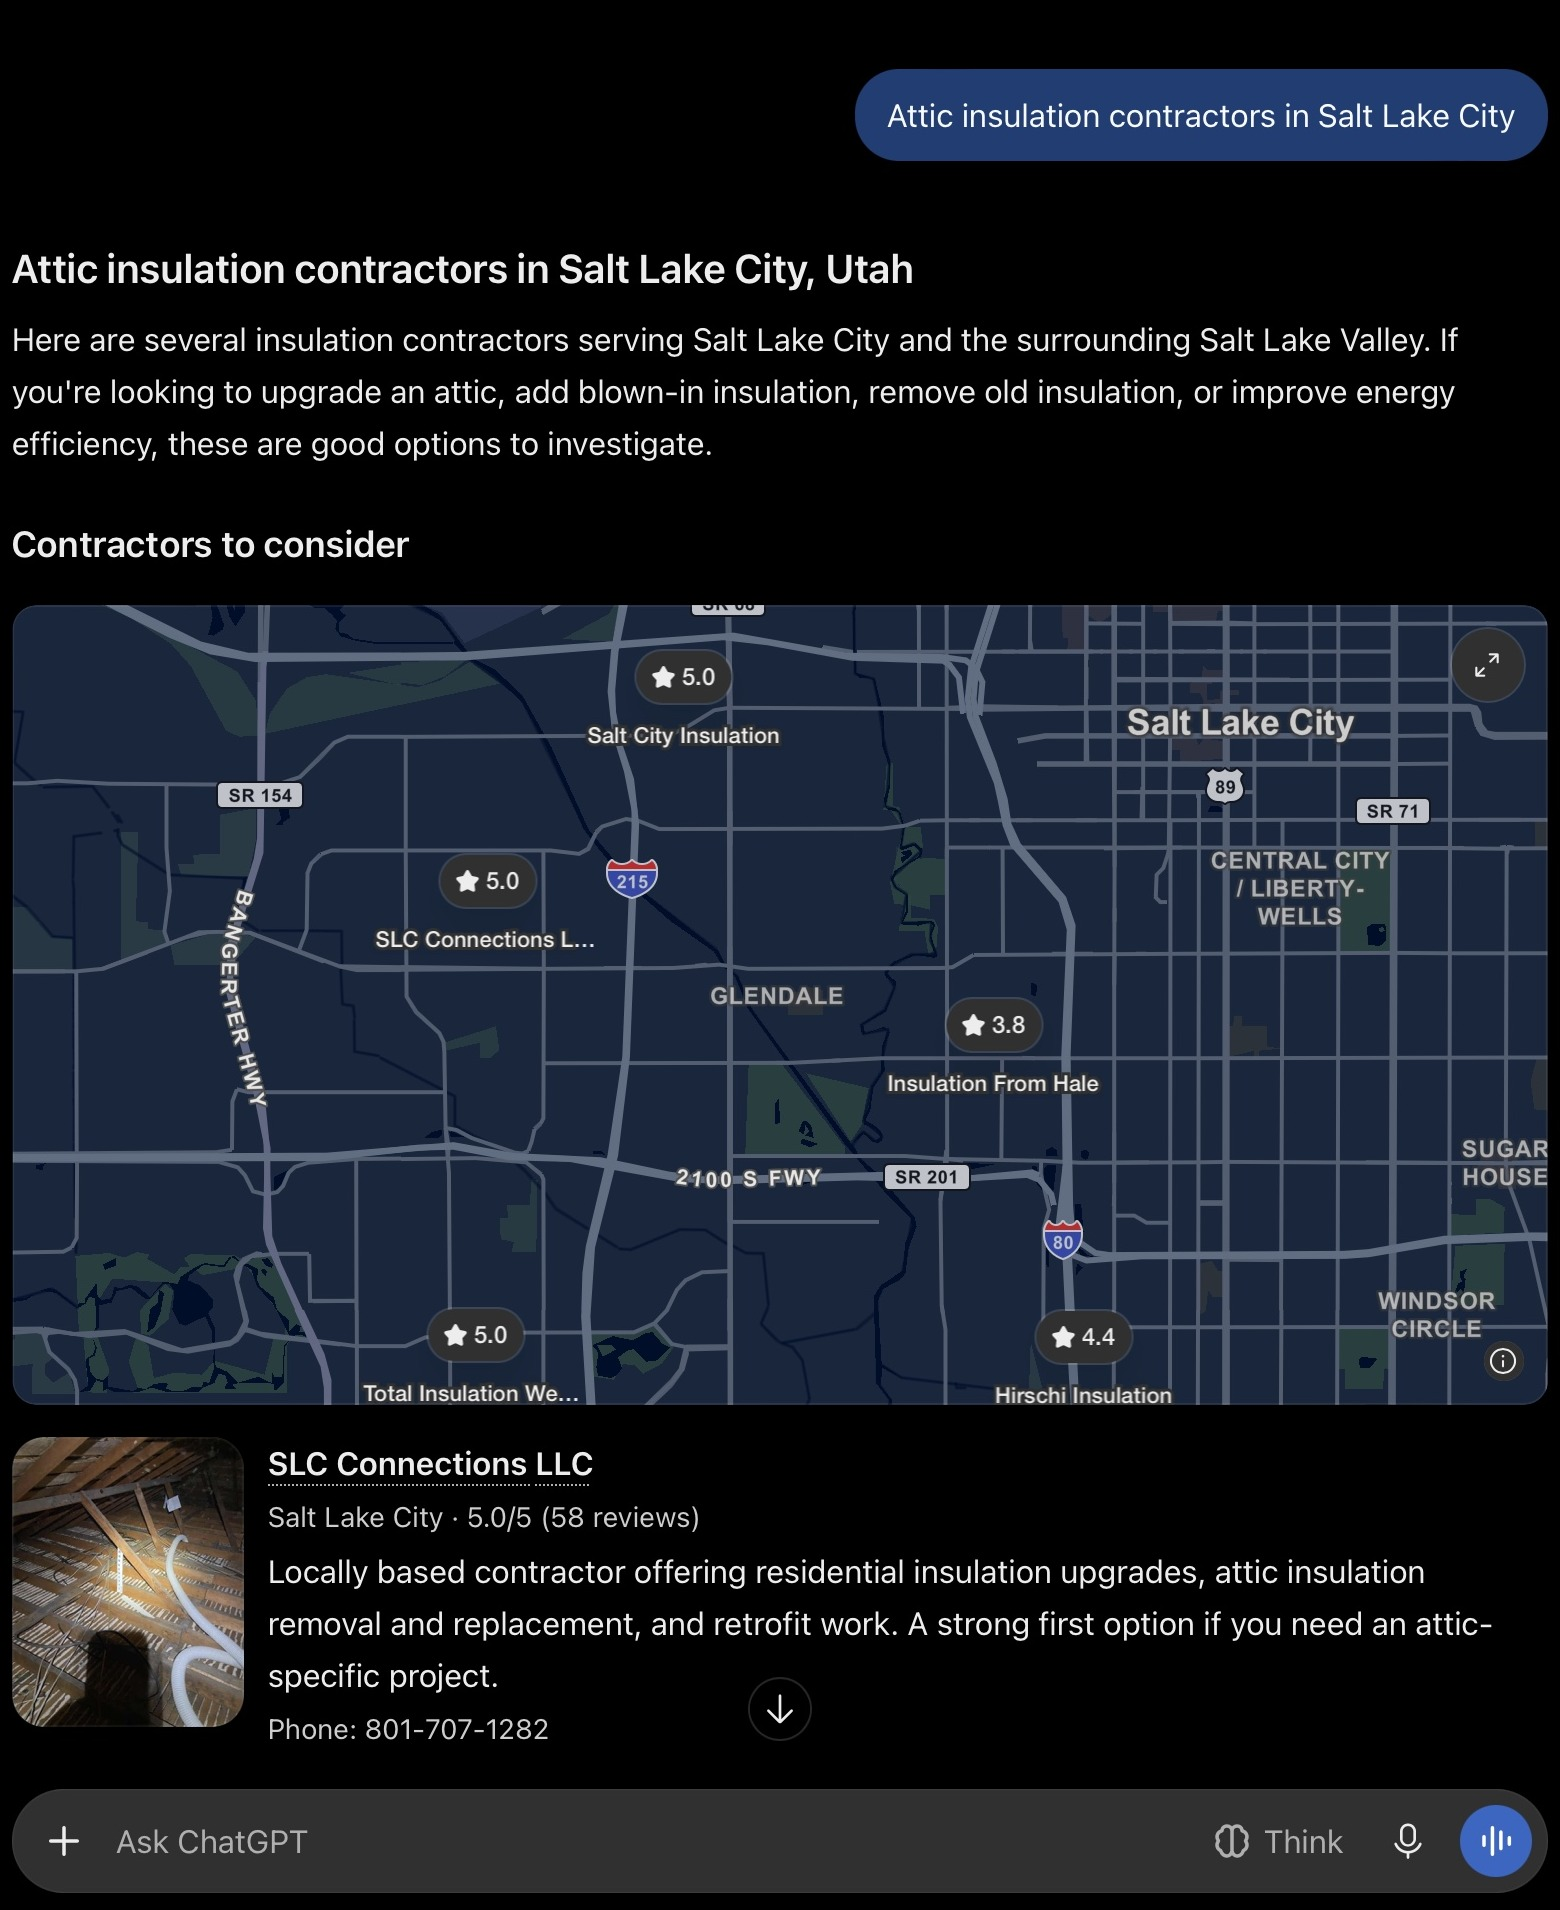
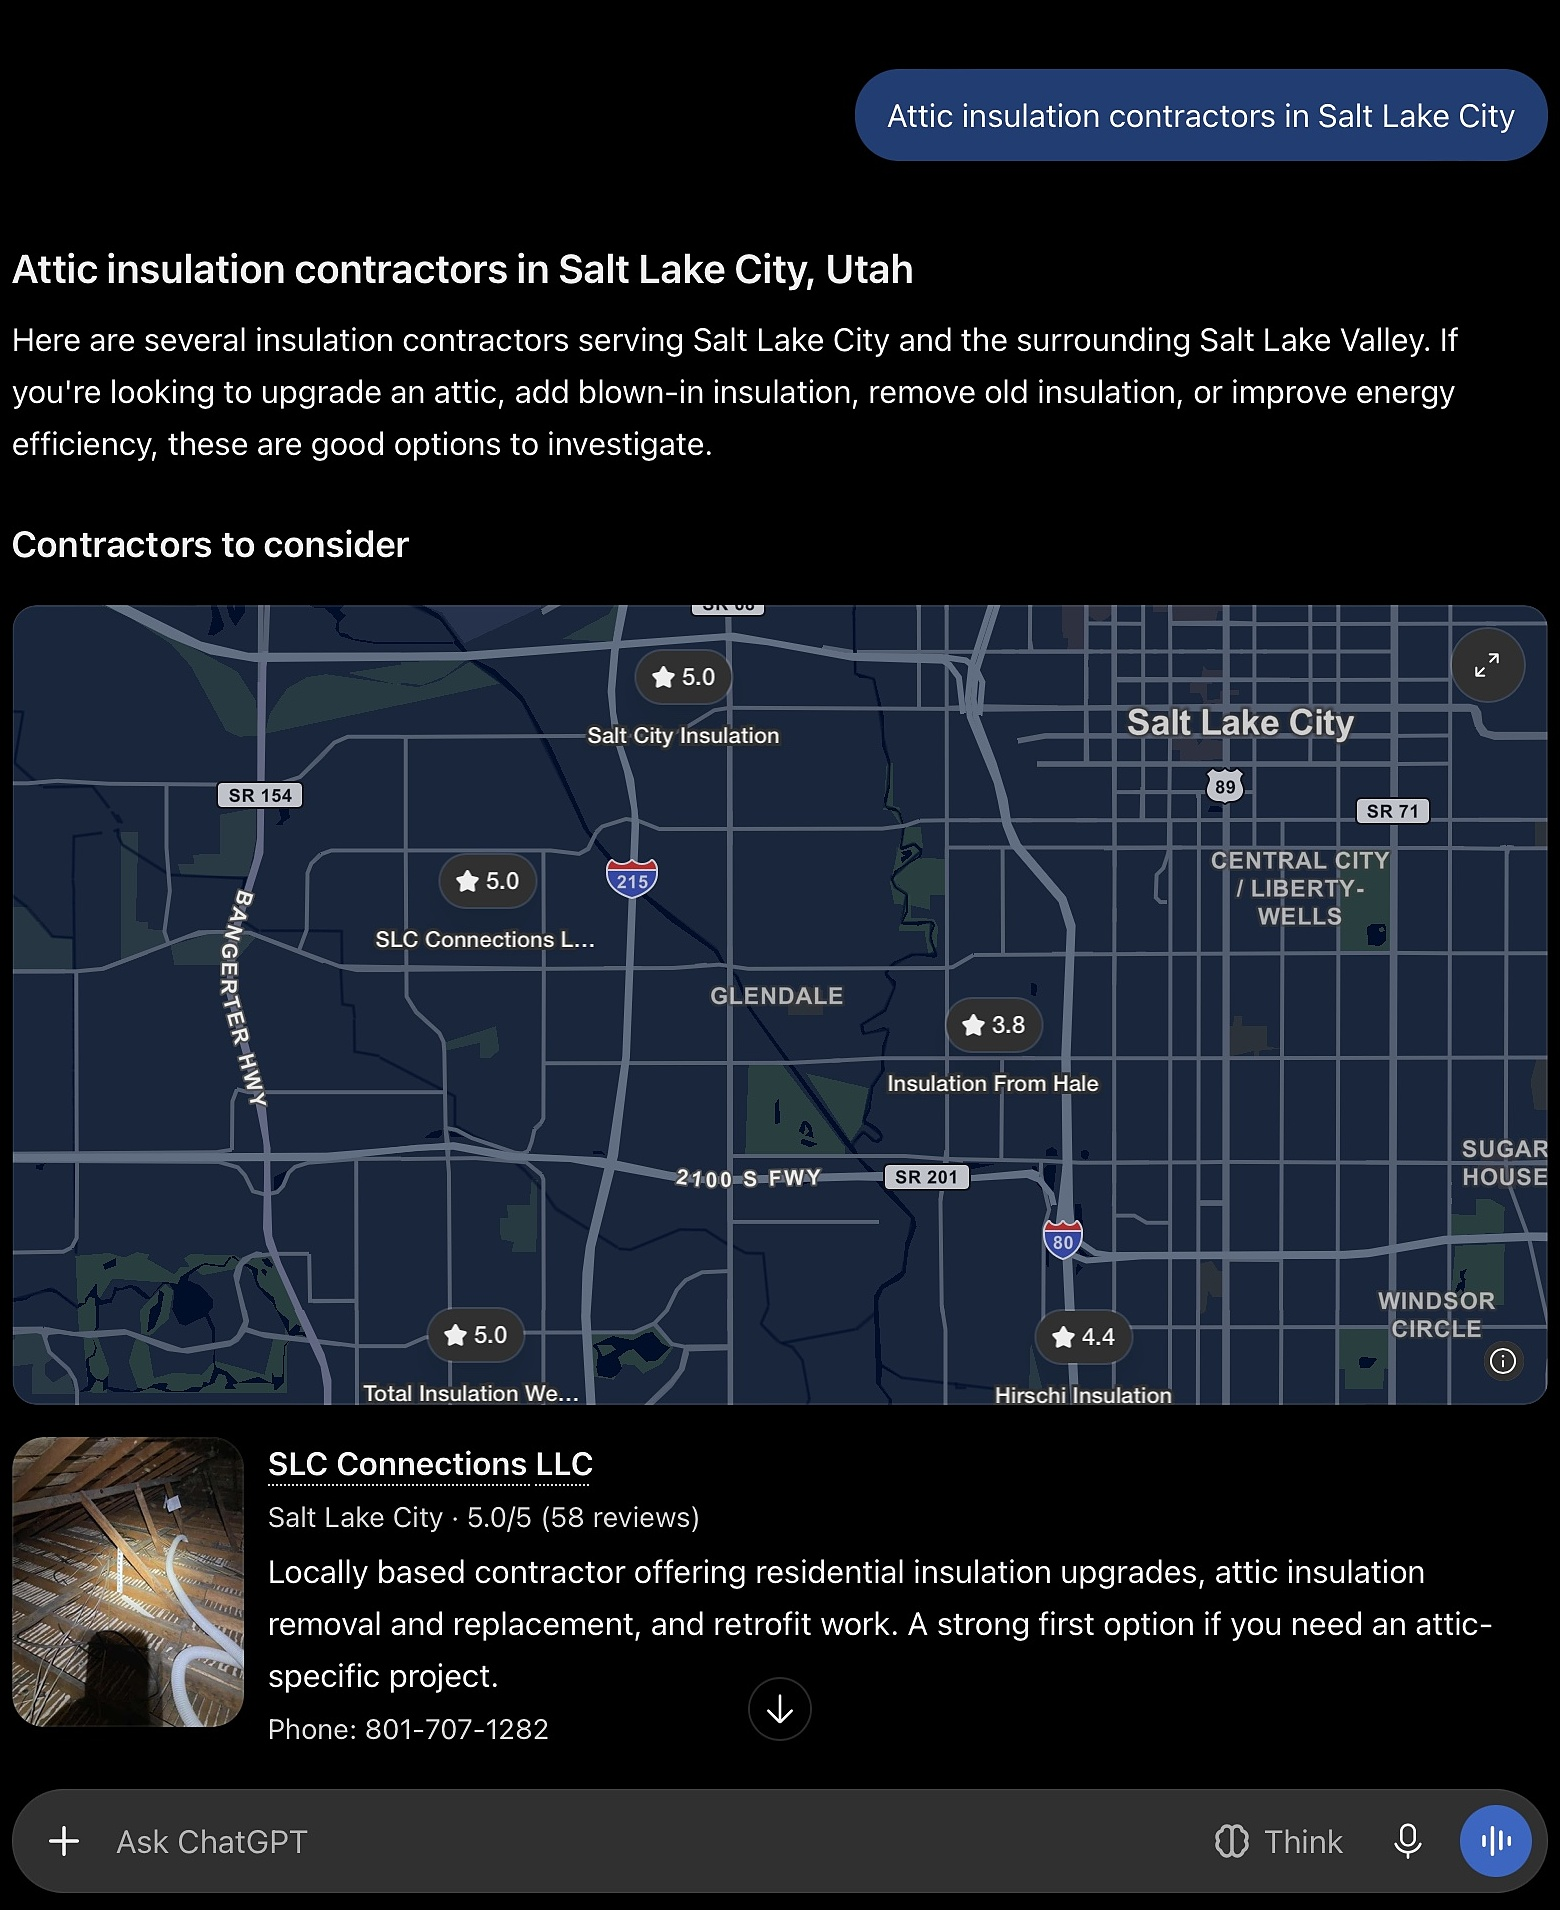
style: refine PayPerResultSector header UI
Compress the header layout for better visibility within the Generative Engine Optimisation step and update the reference image.

Changed region(s): [[0.1538, 0.4016, 0.1846, 0.4325]]

diff --git a/src/components/PayPerResultSector.tsx b/src/components/PayPerResultSector.tsx
@@ -649,61 +649,62 @@ export const PayPerResultSector: React.FC<PayPerResultSectorProps> = ({ onOpenQu
 
                   {/* ================= STEP 02: GENERATIVE ENGINE OPTIMISATION ================= */}
                   {activeStep === 1 && (
-                    <div className="h-full flex flex-col justify-between pt-10 pb-2 bg-[#000000] animate-fadeIn overflow-hidden text-white select-none">
-                      {/* Company / Tool Header */}
-                      <div className="flex items-center justify-between px-3.5 pb-2 border-b border-white/10 bg-[#0a0a0f]">
-                        <div className="flex items-center gap-2">
-                          <div className="w-6 h-6 rounded-full bg-gradient-to-tr from-[#10a37f] to-[#1a7f64] text-white flex items-center justify-center text-[10px] font-bold shadow-xs">
+                    <div className="h-full flex flex-col justify-between pt-9 pb-2 bg-[#000000] animate-fadeIn overflow-hidden text-white select-none">
+                      {/* Slim Top Header */}
+                      <div className="flex items-center justify-between px-3 py-1.5 border-b border-white/10 bg-[#0a0a0f] shrink-0">
+                        <div className="flex items-center gap-1.5">
+                          <div className="w-5 h-5 rounded-full bg-gradient-to-tr from-[#10a37f] to-[#1a7f64] text-white flex items-center justify-center text-[9px] font-bold shadow-xs">
                             AI
                           </div>
-                          <div>
-                            <div className="text-[11px] font-bold text-white leading-tight flex items-center gap-1.5">
+                          <div className="flex items-center gap-1.5">
+                            <span className="text-[11px] font-bold text-white leading-tight">
                               ChatGPT Search
-                              <span className="text-[8px] px-1.5 py-0.5 bg-emerald-500/20 text-emerald-400 border border-emerald-500/30 rounded-full font-mono font-medium">Rank #1</span>
-                            </div>
-                            <span className="text-[9px] text-gray-400 leading-tight">Generative Engine Optimisation</span>
+                            </span>
+                            <span className="text-[8px] px-1.5 py-0.5 bg-emerald-500/20 text-emerald-400 border border-emerald-500/30 rounded-full font-mono font-medium">
+                              Rank #1
+                            </span>
                           </div>
                         </div>
                         <button
                           onClick={() => setGeoModalOpen(true)}
                           className="flex items-center gap-1 bg-white/10 hover:bg-white/20 text-white/90 border border-white/15 px-2 py-0.5 rounded-full text-[9px] font-medium transition-colors cursor-pointer"
-                          title="View full size"
+                          title="View full size lightbox"
                         >
-                          <Maximize2 className="w-2.5 h-2.5" />
-                          <span>Expand</span>
+                          <Maximize2 className="w-2.5 h-2.5 text-[#2aff2a]" />
+                          <span>Full View</span>
                         </button>
                       </div>
 
-                      {/* Image Preview Container - 100% visible width, scrollable so zero text is cut off */}
-                      <div className="relative w-full flex-1 overflow-y-auto overflow-x-hidden no-scrollbar bg-black flex flex-col items-center justify-start py-1">
+                      {/* Image Screen Area: 100% OF IMAGE FITS IN VIEWPORT WITHOUT CROPPING */}
+                      <div className="relative w-full flex-1 min-h-0 flex items-center justify-center p-1.5 overflow-hidden bg-black">
                         <div 
                           onClick={() => setGeoModalOpen(true)}
-                          className="relative w-full group cursor-pointer px-1"
+                          className="relative w-full h-full flex items-center justify-center group cursor-pointer"
                         >
                           <img
                             src="/geo_chatgpt_ranking.jpg"
                             alt="Generative Engine Optimisation - Ranking on AI Tools"
-                            className="w-full h-auto object-contain rounded-md select-none transition-transform duration-200 group-hover:scale-[1.01]"
+                            className="max-h-full max-w-full w-auto h-auto object-contain rounded-md select-none drop-shadow-2xl transition-transform duration-200 group-hover:scale-[1.01]"
                             loading="eager"
                           />
-                          {/* Subtle hint banner */}
-                          <div className="absolute top-2 right-2.5 opacity-90 group-hover:opacity-100 transition-opacity pointer-events-none">
+                          {/* Floating interactive hint overlay */}
+                          <div className="absolute top-2 right-2 opacity-90 group-hover:opacity-100 transition-opacity pointer-events-none">
                             <span className="bg-black/80 backdrop-blur-md text-white text-[8px] px-2 py-0.5 rounded-full border border-white/20 flex items-center gap-1 shadow-md">
-                              <Maximize2 className="w-2.5 h-2.5 text-[#2aff2a]" /> Tap to enlarge
+                              <Maximize2 className="w-2 h-2 text-[#2aff2a]" /> Tap to enlarge
                             </span>
                           </div>
                         </div>
                       </div>
 
-                      {/* Bottom Context Pill */}
-                      <div className="px-2.5 pt-1.5 pb-0.5">
-                        <div className="bg-[#111218] rounded-xl p-2 flex items-center justify-between border border-white/10 shadow-xs">
+                      {/* Slim Bottom Context Pill */}
+                      <div className="px-2.5 pt-1 pb-0.5 shrink-0">
+                        <div className="bg-[#111218] rounded-xl px-2.5 py-1.5 flex items-center justify-between border border-white/10 shadow-xs">
                           <div>
                             <div className="text-[10px] font-bold text-white leading-tight">
                               AI Tool Recommendation
                             </div>
                             <div className="text-[8.5px] text-gray-400 leading-tight">
-                              ChatGPT recommends contractor first
+                              ChatGPT cites SLC Connections LLC as #1 option
                             </div>
                           </div>
                           <span className="text-[9px] font-semibold text-emerald-400 bg-emerald-950/80 px-2 py-0.5 rounded-md border border-emerald-500/30">
